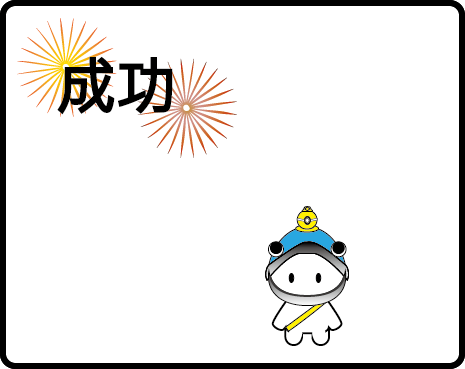
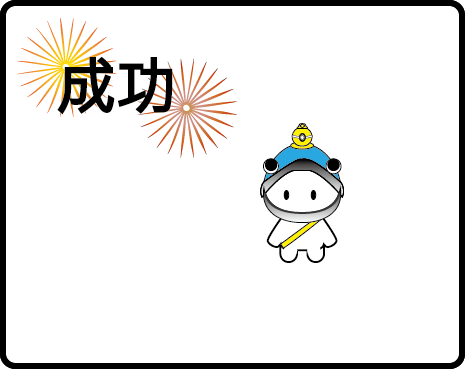
gui_change

Changed region(s): [[0.5419, 0.3279, 0.7527, 0.9539]]

diff --git a/RESULT/result.js b/RESULT/result.js
@@ -8,13 +8,16 @@ var itemArray = new Array();
     itemArray[1] = new Image();
     itemArray[1].src = '../GUI/coinDouble.png';
 var recover = 0;
-var double = 0;
+var coinDouble = 0;
+var bomb = 0;
 
 for(var i = 0 ; i< item.length; i++){
     if (item[i] = "Recover")
     {  recover+=1;}
     else if (item[i] = "Double")
-    {   double += 1;}
+    {   coinDouble += 1;}
+	else if (item[i] = "Bomb"){
+		bomb += 1;}
 }
 
-List.innerHTML = "目前金幣數："+coin+"<br><img src='../GUI/addHP.png'>："+recover+"<img src='../GUI/coinDouble.png'>："+double;
+List.innerHTML = "目前金幣數："+coin+"<br><img src='../GUI/addHP.png'>："+recover+"<img src='../GUI/coinDouble.png'>：" + coinDouble + "<img src='../GUI/time.png'>："+ bomb;

diff --git a/RESULT/success.html b/RESULT/success.html
@@ -6,12 +6,9 @@
     <meta http-equiv="X-UA-Compatible" content="ie=edge">
     <title>成功</title>
     <link rel="stylesheet" type="text/css" href="result.css">
-    <style>
-            div{background-image: url('success.png') ;}
-    </style>
 </head>
 <body>
-        <div><p id="itemList"></p><a href="../Category.html"><img src="btn.png" alt=""></a></div>
+        <div><img src="success.png" style="position:relative;"><p id="itemList"></p><a href="../Category.html"><img src="btn.png" alt=""></a></div>
         <script src="result.js"></script>
 </body>
 </html>

diff --git a/RESULT/fail.html b/RESULT/fail.html
@@ -6,13 +6,10 @@
     <meta http-equiv="X-UA-Compatible" content="ie=edge">
     <title>失敗</title>
     <link rel="stylesheet" type="text/css" href="result.css">
-    <style>
-            div{background-image: url('fail.png') ;}
-    </style>
+
 </head>
 <body>
-    <div><p id="itemList"></p><a href="../Category.html"><img src="btn.png" alt=""></a></div>
-    
+    <div><img src="fail.png" style="position:relative;"><p id="itemList"></p><a href="../Category.html"><img src="btn.png" alt=""></a></div>
     <script src="result.js"></script>
 </body>
 </html>

diff --git a/RESULT/result.css b/RESULT/result.css
@@ -6,16 +6,22 @@
         font-size: 24px;
         color: rgb(2, 134, 128);
         position: absolute;
-        top:200px;
-        left: 10px;
+        top:220px;
+        left: 30px;
     }
+	
+	p img{
+		width:60px;
+	}
+	
     div {
 
         width: 500px;
-        height: 600px;
+        height: 500px;
         background-repeat: no-repeat;
         position: relative;
         margin: auto;
+		background-position:30px 60px;
     }
     
     a{
